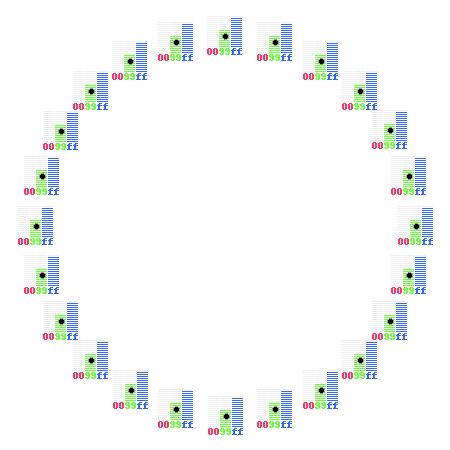
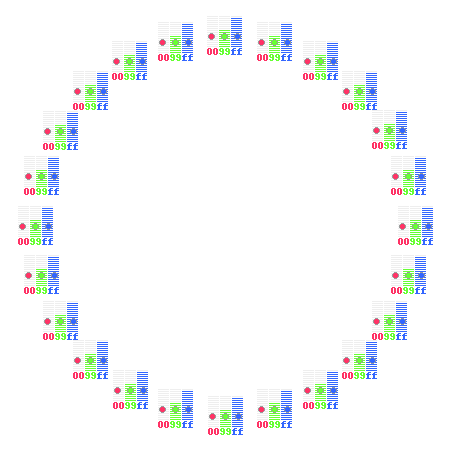
数値変換

diff --git a/step4.py b/step4.py
@@ -22,8 +22,24 @@ def main():
 
     for p in gauge_center_coords:
         x, y = coord_on_gauge(p)
+
+        # ゲージ3+隙間1 の 4 なんでゲージは左にずれているから中心を調整する
+        x -= 1
+
         point_w = 4
-        draw.ellipse((x-point_w/2, y-point_w/2, x+point_w, y+point_w), fill=black,
+
+        horizontal_interval = 13
+
+        # 赤ゲージ
+        draw.ellipse((x-point_w/2-horizontal_interval, y-point_w/2, x+point_w-horizontal_interval, y+point_w), fill=red,
+                     outline=(155, 155, 155))
+
+        # 緑ゲージ
+        draw.ellipse((x-point_w/2, y-point_w/2, x+point_w, y+point_w), fill=green,
+                     outline=(155, 155, 155))
+
+        # 青ゲージ
+        draw.ellipse((x-point_w/2+horizontal_interval, y-point_w/2, x+point_w+horizontal_interval, y+point_w), fill=blue,
                      outline=(155, 155, 155))
 
     im.save('shared/pillow_imagedraw.png', quality=95)
@@ -96,11 +112,13 @@ def paint_one_color_gauge(src_left, src_top, w, h, value, fill_color):
         0...255
     """
 
+    half_byte = byte_to_half_byte(value)
+
     y = src_top
     for i in range(0, 16):
         x = src_left
 
-        if value < (16-i)*16:
+        if half_byte < (16-i):
             fc = light_gray
         else:
             fc = fill_color
@@ -110,6 +128,12 @@ def paint_one_color_gauge(src_left, src_top, w, h, value, fill_color):
         # 2px は開けないと、くっついている。 +1 だと隣なので
         y += h+2
     pass
+
+
+def byte_to_half_byte(value):
+    """0～255を、0～15に縮めます
+    """
+    return int(value/16)
 
 
 main()
